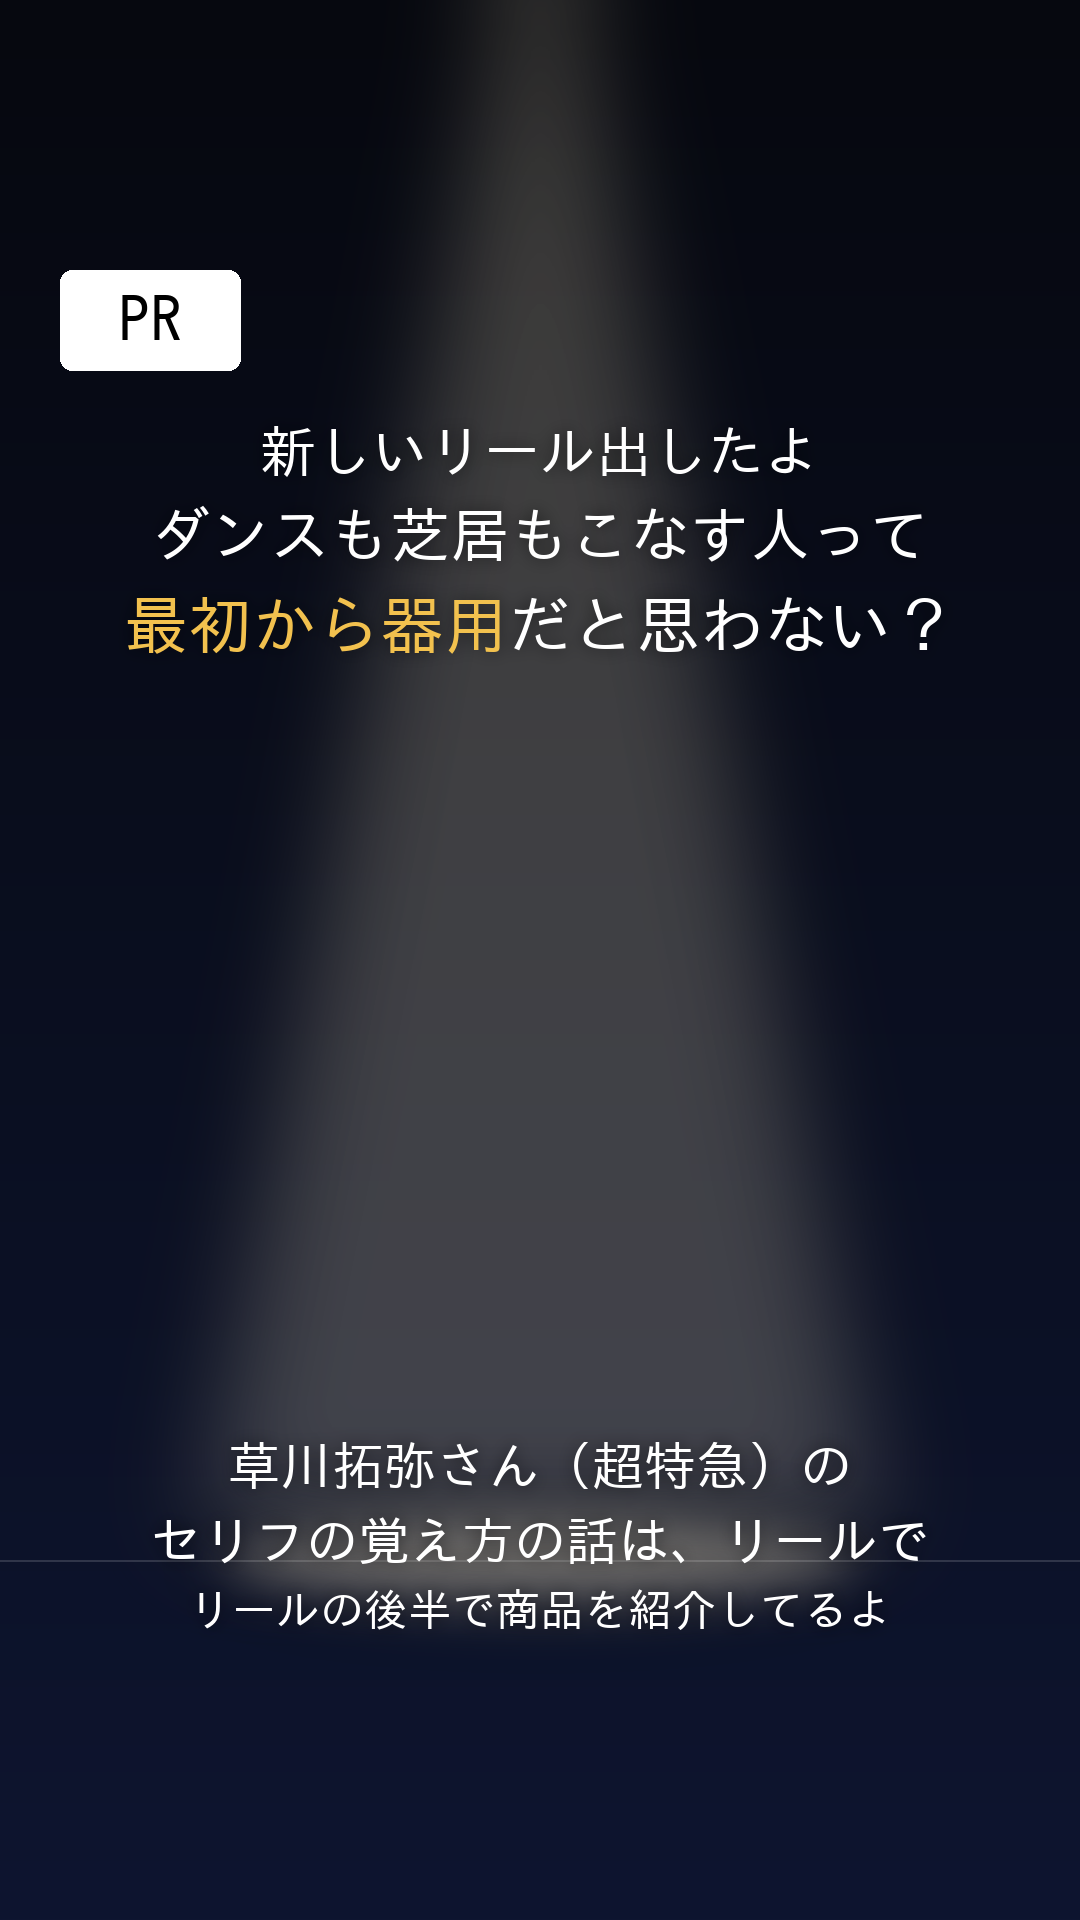
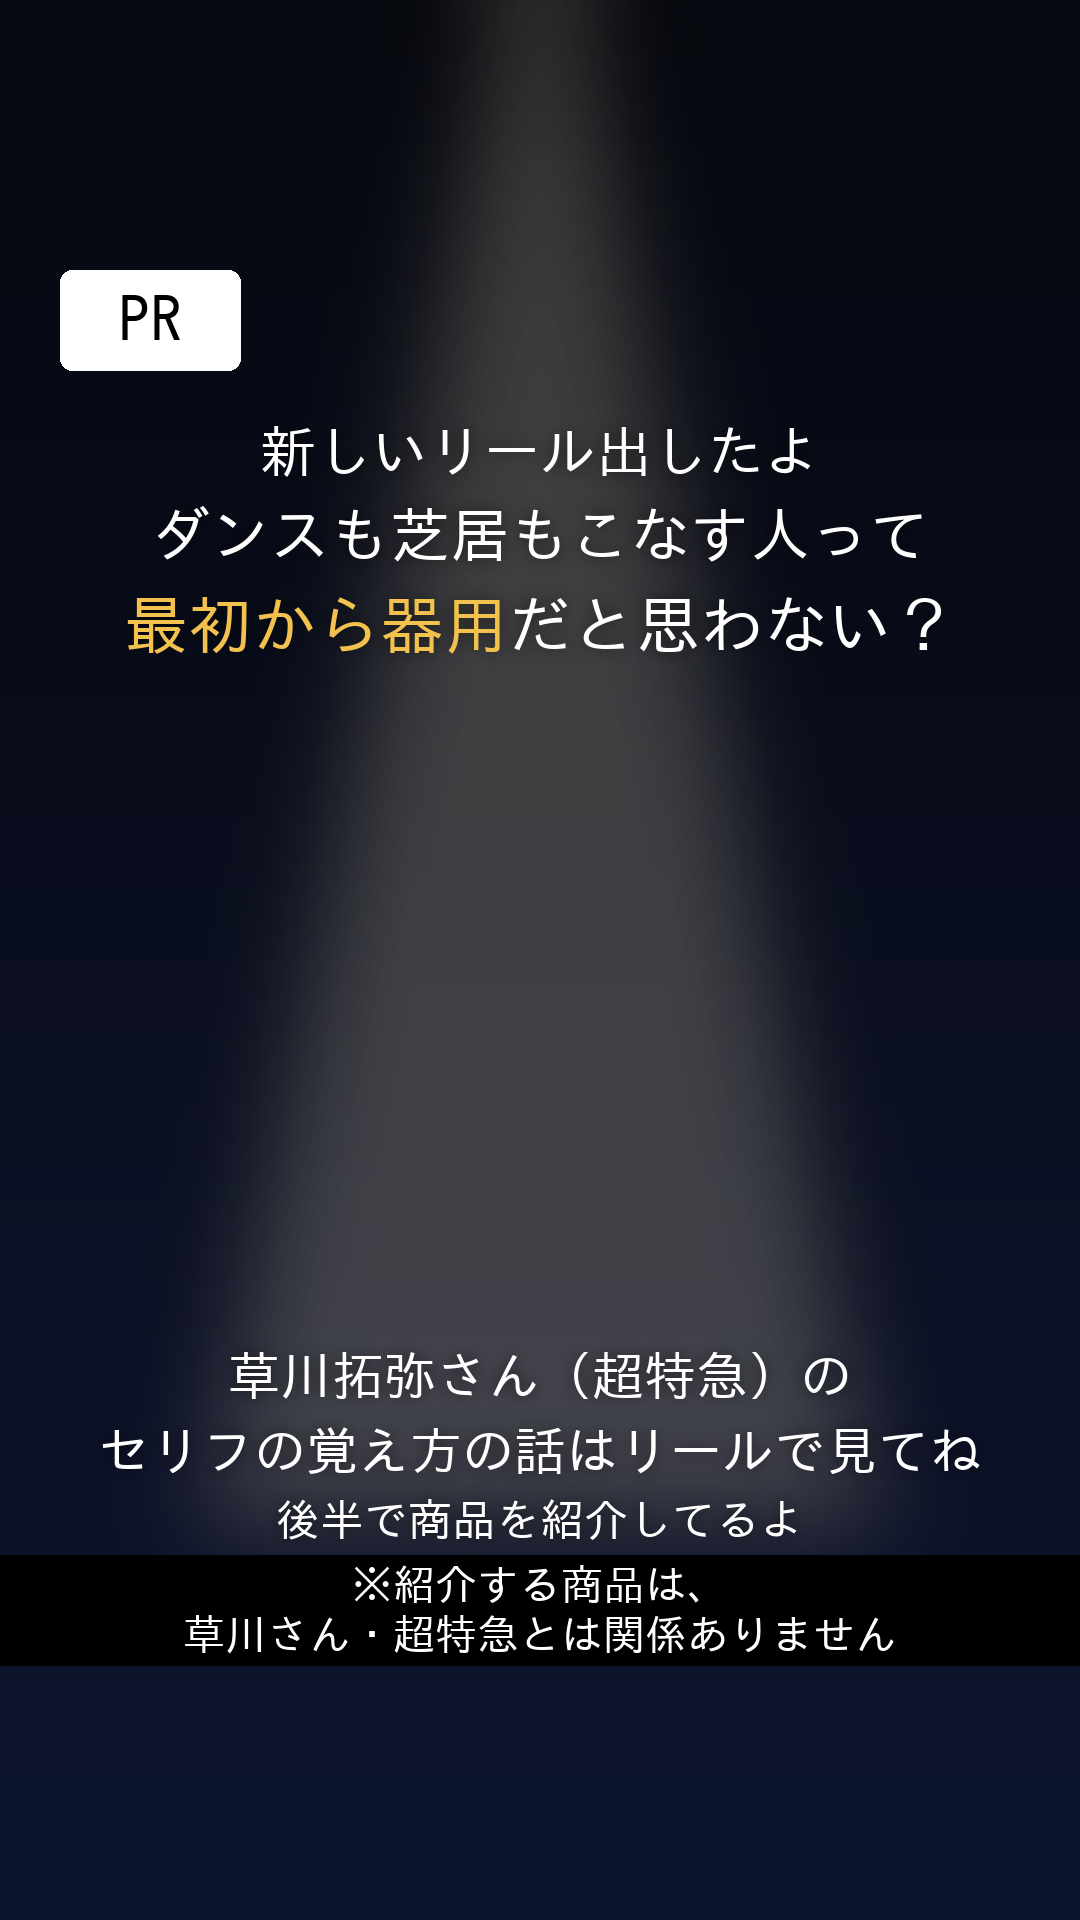
芸能人雑学：ストーリーズ1枚目の直し、木曜投稿を引き継ぎメモに
Claude-Session: https://claude.ai/code/session_01KHdZMpVUTkT9G5d6BjV2R5

Changed region(s): [[0.0, 0.6875, 1.0, 0.875], [0.0917, 0.75, 0.1222, 0.7812]]

diff --git a/芸能人雑学/06_ストーリーズ/2026-11-05_草川拓弥_セリフ覚え_ストーリーズ画像_組み立て.py b/芸能人雑学/06_ストーリーズ/2026-11-05_草川拓弥_セリフ覚え_ストーリーズ画像_組み立て.py
@@ -31,11 +31,16 @@ def dashed_box(im, box, label):
 def main(out, guide):
     os.makedirs(out, exist_ok=True)
     # 1枚目：リールへの案内（まん中にリールを共有して置く）
-    im = k.bg(1)
+    im = k.gradient()  # 床の線のない背景（スポットライトだけ）
+    im = k.glow(im, lambda d, a: d.polygon([(470, 0), (610, 0), (920, 1560), (160, 1560)], fill=k.LIGHT + (a,)), 56, 60)
     pr(im)
     text(im, [("新しいリール出したよ", 56), ("ダンスも芝居もこなす人って", 60), ("{最初から器用}だと思わない？", 64)], (400, 680))
-    if guide: dashed_box(im, (240, 720, 840, 1380), "ここにリールを共有して置く")
-    text(im, [("草川拓弥さん（超特急）の", 52), ("セリフの覚え方の話は、リールで", 52), ("リールの後半で商品を紹介してるよ", 44)], (1420, 1650))
+    if guide: dashed_box(im, (240, 710, 840, 1330), "ここにリールを共有して置く")
+    text(im, [("草川拓弥さん（超特急）の", 52), ("セリフの覚え方の話はリールで見てね", 52), ("後半で商品を紹介してるよ", 44)], (1345, 1545))
+    d = ImageDraw.Draw(im)
+    d.rectangle([0, 1555, k.W, 1665], fill=(0, 0, 0, 140))
+    for i, s2 in enumerate(["※紹介する商品は、", "草川さん・超特急とは関係ありません"]):
+        tw = d.textlength(s2, font=k.font(42)); d.text(((k.W - tw) / 2, 1563 + i * 50), s2, font=k.font(42), fill=k.WHITE)
     im.convert("RGB").save(os.path.join(out, "1枚目_リールの案内" + ("_置き場所つき" if guide else "") + ".png"))
     # 2枚目：商品の案内＋リンクスタンプ
     im = k.bg(8)

diff --git a/芸能人雑学/09_チェック/2026-11-05_草川拓弥_セリフ覚え_ストーリーズ_チェック結果.md b/芸能人雑学/09_チェック/2026-11-05_草川拓弥_セリフ覚え_ストーリーズ_チェック結果.md
@@ -1,0 +1,56 @@
+# チェック結果：ストーリーズ 草川拓弥さん「セリフ覚え」PR版（11/5 投稿の日）
+
+- アカウント：`芸能人雑学/`
+- チェックした日：2026-11-03／checker
+- 見たもの：`06_ストーリーズ/2026-11-05_草川拓弥_セリフ覚え_ストーリーズ.md`、画像4枚（`06_ストーリーズ/画像/2026-11-05_草川拓弥_セリフ覚え/`）
+- 照らし合わせたもの：`CLAUDE.md`、`アカウント設定.md`、`01_リサーチ/2026-11-01_CherishPalette_A8提携情報メモ.md`、台本 v6（フックの文が同じか）
+
+## 判定：要修正（小さな直し2つ・担当 stories）
+
+直せば投稿できる。PR・リンク・権利・景表法の大きな問題はない。
+
+---
+
+## 項目ごと
+
+| 項目 | 結果 | メモ |
+|---|---|---|
+| PR の見え方 | OK | 1枚目・2枚目とも左上に白い四角＋黒文字の「PR」（y=270〜370）。開いてすぐ読める大きさ |
+| ことわり書き（2枚目） | OK | 「※草川さん・超特急とは関係のない商品です（草川さんが使っている物ではありません）」が黒い帯で読める。「※絵はイメージです」もある |
+| ことわり書き（1枚目） | **要修正** | 下の「直し1」 |
+| パブリシティ権・「愛用」 | OK（1枚目は直し1） | 2枚目で名前と商品を同じ文でつないでいない。「愛用」「おすすめ」なし |
+| 景表法・A8 の決まり | OK | 値段・セール・クーポン・限定・No.1・ランキングなし。効果の言い切りなし（「推し色でえらべる」「アクスタ・カード・缶バッジ用があるよ」は提携メモのセールスポイントの範囲） |
+| A8：人物画像 NG | OK | 写真なし。お店のサイトの画像なし。フレームは線の図形、色は丸だけ |
+| A8：リンクを変えない | OK | 原稿のリンクが提携メモの Instagram 用リンク（`a8sns=instagram`）と1文字もちがわない |
+| 上下 250px | OK | 文字は y=270〜1670 の中。2枚目のことわり書きの帯は下の端が y≒1668 で、ぎりぎり入っている（これ以上下げない） |
+| 文字の重なり | **要修正**（1枚目） | 下の「直し2」。2枚目は、リンクスタンプの目印（y≒1390〜1470）が色の丸・「気になる人は〜」と重なっていない |
+| リール共有の置き場所（1枚目） | OK | 点線（y≒720〜1380）が上の文・下の文と重なっていない |
+| 口調 | OK（1か所だけ読みにくい） | タメ語で、責める・押しつける言い方なし。フックは台本 v6 と同じ文 |
+| 事実・数字 | OK | 新しい事実・数字なし。色の丸は数を書いていない（「〇色」と書かない） |
+
+---
+
+## 直し案（stories へ）
+
+### 直し1：1枚目にも、商品とのことわり書きを入れる
+- 今：「草川拓弥さん（超特急）の／セリフの覚え方の話は、リールで」のすぐ下に「リールの後半で商品を紹介してるよ」。名前と「商品」がとなりの行にあり、ことわり書きがない。草川さんに関係のある商品に見えるかもしれない（アカウント設定 3.「書いてはいけないこと」の 3・7）
+- 直し案：いちばん下に小さく1行足す（2枚目と同じ黒い帯でもよい。y=1670 より上に入れる）
+  - 「※紹介する商品は、草川さん・超特急とは関係ありません」
+
+### 直し2：1枚目の、文字にかかる横線をなくす／くり返しを直す
+- 今：y≒1560 にうすい横線（背景のつなぎ目）があり、「セリフの覚え方の話は、リールで」の文字の下の端にかかっている
+- 直し案：横線を消す（背景のグラデーションのつなぎ目を直す）か、下の3行を線にかからない高さへ動かす
+- ついでに：「〜リールで／リールの後半で〜」と「リール」が2回つづいて読みにくい。案：
+  - 「草川拓弥さん（超特急）の／セリフの覚え方の話はリールで見てね」
+  - 「後半で商品を紹介してるよ」
+  - 「※紹介する商品は、草川さん・超特急とは関係ありません」
+
+---
+
+## 残っている【要確認】
+- なし（このストーリーズの中には）
+- 原稿のとおり、TikTok のストーリーズには使わない（TikTok 用リンクの決まりを確かめるまで）
+
+## アカウント主へのひと言（投稿のとき）
+- 投稿に使うのは「置き場所つき」ではないほうの画像
+- リンクスタンプは2枚目の点線のあたりに置く。スタンプが大きくなっても、下のことわり書きの帯にかからないようにする

diff --git a/芸能人雑学/引き継ぎメモ.md b/芸能人雑学/引き継ぎメモ.md
@@ -41,7 +41,7 @@
 | 一人称・口調 | 私・タメ語 |
 | 作る人 | 通常の投稿はアカウント主。**チームはアフィリエイト投稿だけ** |
 | アフィリエイト | **A8.net**。推し活グッズ・美容まわり。いま提携しているのは **Cherish Palette**（推し活フレーム） |
-| 頻度・形 | 週1本・リールだけ（曜日・時間は未定）。**Instagram と TikTok の両方に出す** |
+| 頻度・形 | 週1本・リールだけ。**木曜日に投稿**（11/3 アカウント主・時間は未定）。**Instagram と TikTok の両方に出す** |
 | リンク | プロフとストーリーズ（リンクスタンプ）。Instagram 用 `https://px.a8.net/svt/ejp?a8mat=4BGAUX+BCFDRM+2ZQM+TSBE9&a8sns=instagram`／TikTok 用は最後が `a8sns=tiktok` |
 | 見た目 | 黒っぽい背景・白い文字・ゴールドのアクセント・写真なし（文字と図形だけ）・音なしで書き出す |
 
@@ -73,6 +73,8 @@
   - アカウント主の構成：フック → ギャップ → 挫折と苦労 → 泥臭い努力 → 結論＆オチ
   - PR版＝通常版のあとに PR パートを付け足す。つなぎは「ちなみに、ここからはPRなんだけど、推しのがんばってる話を知ると、グッズもちゃんと飾ってあげたくなるよね」（案A）
 - 概要欄：`05_キャプション/2026-11-01_草川拓弥_セリフ覚え_キャプション_v2.md`（checker OK・Instagram と TikTok 両用）
+- ストーリーズ（PR版用・画像2枚）：`06_ストーリーズ/2026-11-05_草川拓弥_セリフ覚え_ストーリーズ.md`・画像 `06_ストーリーズ/画像/2026-11-05_草川拓弥_セリフ覚え/`
+- **11/5（木）に投稿する予定**（11/3 アカウント主）。動画はまだ（声の返事待ち）
 - 使っていない情報（出典未確認）：副社長役のリサーチ・「受けの芝居」・五十音の発声・人見知りでも声をかける・2012年加入・メンバーの姿を見て準備
 
 ---
@@ -94,7 +96,7 @@
 
 ## 5. まだ決まっていないこと（聞くのは必要になったときだけ・1つずつ）
 
-- 投稿の曜日・時間
+- 投稿の時間（曜日は木曜）
 - BGM を付けるか（チームは入れない）
 - ストーリーズも「広告掲載URL管理」に出すか・ハイライトに残すか
 - 出典記事の1ページ目の掲載日（日付を出すときだけ）

diff --git a/芸能人雑学/06_ストーリーズ/2026-11-05_草川拓弥_セリフ覚え_ストーリーズ.md b/芸能人雑学/06_ストーリーズ/2026-11-05_草川拓弥_セリフ覚え_ストーリーズ.md
@@ -7,7 +7,8 @@
 - もとにしたもの：台本 `02_台本/2026-11-01_草川拓弥_セリフ覚え_台本_v6.md`／概要欄 `05_キャプション/2026-11-01_草川拓弥_セリフ覚え_キャプション_v2.md`／提携情報メモ
 
 ## 1枚目：リールの案内
-- 文字：PR（左上）／新しいリール出したよ／ダンスも芝居もこなす人って／**最初から器用**だと思わない？／（まん中にリールを共有）／草川拓弥さん（超特急）の／セリフの覚え方の話は、リールで／リールの後半で商品を紹介してるよ
+- 文字：PR（左上）／新しいリール出したよ／ダンスも芝居もこなす人って／**最初から器用**だと思わない？／（まん中にリールを共有）／草川拓弥さん（超特急）の／セリフの覚え方の話はリールで見てね／後半で商品を紹介してるよ／※紹介する商品は、草川さん・超特急とは関係ありません（黒い帯）
+- checker の直し（ことわり書きを足す・背景の横線をなくす）を入れた
 - スタンプ：リールの共有（まん中の点線のところ）。リンクスタンプは付けない
 
 ## 2枚目：商品の案内＋リンクスタンプ

diff --git a/引き継ぎメモ.md b/引き継ぎメモ.md
@@ -28,7 +28,7 @@
 
 ### 芸能人雑学（アフィリエイト投稿だけ・週1）→ くわしくは `芸能人雑学/引き継ぎメモ.md`
 - 草川拓弥さん × Cherish Palette：**声なし版「立ち位置」は完成**（`芸能人雑学/10_完成/2026-11-01_草川拓弥_立ち位置_完成.md`）・投稿待ち
-- **声あり版「セリフ覚え」は台本 v6・概要欄 v2 まで（checker OK）**。次は声をどうするか聞いて動画にする
+- **声あり版「セリフ覚え」は台本 v6・概要欄 v2・ストーリーズまで**。**11/5（木）投稿予定**。動画は声の返事待ち
 - TikTok にも出す。出す前に TikTok の広告表示・リンクの決まりをアカウント主が確かめる
 
 ---
